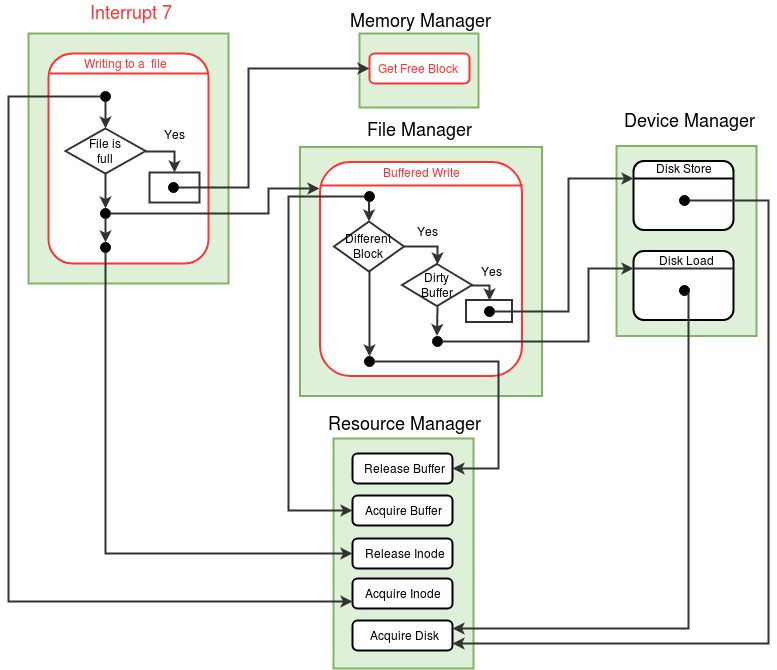
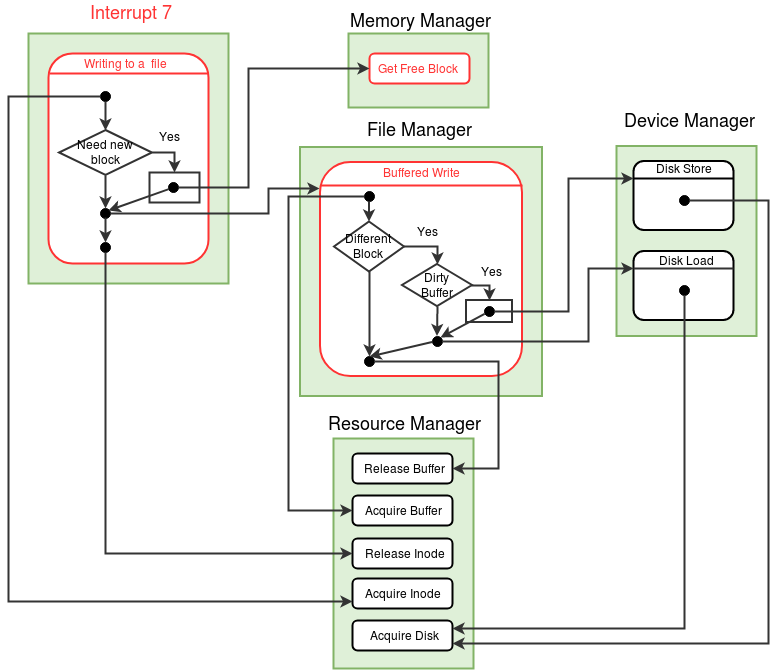
Reviewed File Write stage

diff --git a/Roadmap.html b/Roadmap.html
@@ -1773,7 +1773,7 @@ ireturn;
  services like writing to a file/console, forking a process etc.   Each system call routine is written inside
  some software interrupt handler.  For example, the write system call of eXpOS is coded inside the INT 7 handler.  
  An interrupt handler may contain code for several system calls. 
- (For example, in the eXpOS implementation on XSM, the routines for create, delete and seek system calls 
+ (For example, in the eXpOS implementation on XSM, the routines for create and  delete system calls 
  are coded inside the INT 4 handler - find details<a href="os_design-files/Sw_interface.html" target="_blank"> here</a>). To identify the correct routine, the OS assigns a unique system call number to each system call routine.  To invoke a system call from a program, the program must pass the system call number (along with other arguments to the system call) and invoke the corresponding
  software interrupt using the INT instruction.  The arguments and the system call number are passed through the user 
  program's stack.</p>  
@@ -2000,6 +2000,7 @@ loadi(17,30);
 
 	<br>
 	<b>Making Things Work</b><br><br>
+	<p style="text-indent: 0px"><code>Note :</code><b>[Implementation Tip]</b> From this stage onwards, you have to load multiple files using XFS-interface. To make things easier, create a batch file containing XFS-interface commands to load the required files and run this batch file using <b>run</b> command. See the usage of <b>run</b> command in <a href="./support_tools-files/xfs-interface.html" target="_blank">XFS-interface documentation</a>.   </p>
 	<ol style="list-style-type:decimal;margin-left:2px">
 	<li>
 	Save this file in your UNIX machine as $HOME/myexpos/spl/spl_progs/sample_int7.spl
@@ -2960,6 +2961,7 @@ alias currentPID R2;</pre></div></li>
 							<br>
 
 							  <b>Making things work</b><br><br>
+
 							  <ol style="list-style-type: decimal;margin-left: 2px">
 							  	<li>Compile and load boot module code, module 0, module 4, modified INT 7 routine using XFS-interface.</li>
 							  	<li>Run the machine with two programs one printing even numbers and another printing odd numbers from 1 to 100 along with the idle process.</li>
@@ -3824,7 +3826,9 @@ the <i>load</i> instruction abstracts <a href="https://en.wikipedia.org/wiki/Asy
  
        <li style="padding-left: 20px">Initialize the <a href="os_design-files/process_table.html#per_page_table" target="_blank">page table</a> of the child process. As heap, code and library pages are shared by the parent process and the child process, copy these entries (page number and auxiliary information) form the page table of the parent to the child. For each page shared, increment the corresponding share count in the <a href="os_design-files/mem_ds.html#mem_free_list" target="_blank">memory free list</a> (why do we do need to do this?). Initialize the stack page entries in the page table with the new memory page numbers obtained earlier. Note that the auxiliary information for the stack pages is same for both parent and child (why?). Copy content of the user stack pages of the parent to the user stack pages of the child word by word.</li>
 
-       <li style="padding-left: 20px">Store the value in the BP register on top of the kernel stack of child process. The processes (child) created by <i>Fork</i> starts the execution from the instruction following call to <i>Fork</i>. So, the child process needs BP value at that point of execution. Hence, BP (BP value of parent) is stored so that when the child starts it execution for the first time, it pops the value from stack and uses it. Note that even the kernel stack has a value present, the KPTR in the process table is still set to 0.</li>
+       <li style="padding-left: 20px">Store the value in the BP register on top of the kernel stack of child process. This value will be used to initialize the BP register of the child process by the scheduler when the child is scheduled for the first time.  
+
+       <!--The processes (child) created by <i>Fork</i>starts the execution from the instruction following call to <i>Fork</i>. So, the child process needs BP value at that point of execution. Hence, BP (BP value of parent) is stored so that when the child starts it execution for the first time, it pops the value from stack and uses it. Note that even the kernel stack has a value present, the KPTR in the process table is still set to 0.--></li>
 
        <li style="padding-left: 20px">Set up return values in the user stacks of the parent and the child processes.  Store the PID of the child process as return value to the parent and 0 as the return values to the child.  Reset the MODE FLAG of the parent process. Switch to the user stack of the parent process and return to the user mode.</li>
 </ul>
@@ -3835,10 +3839,10 @@ the <i>load</i> instruction abstracts <a href="https://en.wikipedia.org/wiki/Asy
 
 <b>Modifications to <a href="os_modules/Module_5.html" target="_blank">Scheduler module</a></b>
 <br><br>
-<p>The context-switch (scheduler) module is modified in this stage to store the BP back from the kernel stack for the child processes.</p>
+<p>The context-switch (scheduler) module is modified in this stage. The BP register of the child has to be initiazed by the scheduler for the first time as child is in created state. Refer to the detailed schedular algorithm <a href="os_modules/Module_5.html" target="_blank">here</a>.</p>
 <ul style="list-style-type: disc; margin-left: 10px">
-	<li style="padding-left: 20px">As the child process state is set to created by the <i>Fork</i>, do the following when the state of the new process found is created - </li>
-	<li style="padding-left: 20px">Before changing the stack to the user stack for the created process, store the value on top of the kernel stack (pointed by SP) to the BP register.</li>
+	<li style="padding-left: 20px">When the process is in created state, add folllowing steps before switching to user stack.</li>
+	<li style="padding-left: 20px">Store the value in the first word of the kernel stack to the BP register.</li>
 </ul>
 
 
@@ -4076,10 +4080,10 @@ In later stages, when a file system is added to the OS, the file system data wil
   
   <br><br>
 
-  <b style="color:#26A65B">Assignment 2: </b>Modify <a href="test_prog.html#ll_fork" target="_blank">the program</a> given in assignment-2 of previous stage to use <i>Wait</i> and <i>Signal</i> system calls to synchronize the order of printing the numbers. The program given creates linked list of the first 100 numbers. The program then forks to create a child so that the parent and the child has separate pointers to the head of the shared linked list.  Now, the child prints the  1st, 3rd, 5th, 7th... etc. entries of the list whereas the parent prints the 2nd, 4th, 6th, 8th....etc. entries of the list. Modify the program to invoke <i>Wait</i> system call from parent with PID of child process before printing a number and child to invoke <i>Signal</i> system call after child prints an entry. Usage of <i>Wait</i> and <i>Signal</i> system calls make sure that numbers are printed in sequential order. Run this program using the shell.  
+  <!--<b style="color:#26A65B">Assignment 2: </b>Modify <a href="test_prog.html#ll_fork" target="_blank">the program</a> given in assignment-2 of previous stage to use <i>Wait</i> and <i>Signal</i> system calls to synchronize the order of printing the numbers. The program given creates linked list of the first 100 numbers. The program then forks to create a child so that the parent and the child has separate pointers to the head of the shared linked list.  Now, the child prints the  1st, 3rd, 5th, 7th... etc. entries of the list whereas the parent prints the 2nd, 4th, 6th, 8th....etc. entries of the list. Modify the program to invoke <i>Wait</i> system call from parent with PID of child process before printing a number and child to invoke <i>Signal</i> system call after child prints an entry. Usage of <i>Wait</i> and <i>Signal</i> system calls make sure that numbers are printed in sequential order. Run this program using the shell.  
    <br><br>
-
-   <b style="color:#26A65B">Assignment 3: </b> Write an ExpL program 'pid.expl' which invokes <i>Getpid</i> system call and prints the pid. Write another ExpL program which invokes <i>Fork</i> system call three times back to back. Then, the program shall use <i>Exec</i> system call to execute pid.xsm file. Run this program using the shell.
+-->
+   <b style="color:#26A65B">Assignment 2: </b> Write an ExpL program 'pid.expl' which invokes <i>Getpid</i> system call and prints the pid. Write another ExpL program which invokes <i>Fork</i> system call three times back to back. Then, the program shall use <i>Exec</i> system call to execute pid.xsm file. Run this program using the shell.
    <br><br>
 		</div>
 		</div>
@@ -4267,6 +4271,13 @@ ensure data consistency.  eXpOS provides <b>binary semaphores</b> which can be u
                             Yes, it is possible. As some other process waiting for the semaphore could be scheduled before the current process and could have locked the semaphore. In this case the present process finds the semaphore locked again and has to wait in a busy loop until the required sempahore is unlocked.    
                             </div>
     </li>
+     <li class="list-group-item">
+
+<a data-toggle="collapse"  href="#collapseq21"><b>Q2.</b>A process first locks a semaphore using SemLock system call and then forks to create a child. As the semaphore is now shared between child and parent, what will be locking status for the semaphore? </a>
+                            <div id="collapseq21" class="panel-collapse collapse">
+                            The sempahore will still be locked by the parent process. In <i>Fork</i> system call, the PROCESS COUNT in the semaphore table is incremented by one but LOCKING PID field is left untouched. 
+                            </div>
+    </li>
 
     </ul>
                           </div>
@@ -4436,8 +4447,8 @@ bit (in the buffer table) of all the buffered disk blocks of the file.
                           <ul class="list-group">
                            <li class="list-group-item">
 
-<a data-toggle="collapse"  href="#collapseq21"><b>Q1.</b> What is the need for <i>Delete</i> system call to lock the file before deleting it? </a>
-                            <div id="collapseq21" class="panel-collapse collapse">
+<a data-toggle="collapse"  href="#collapseq22"><b>Q1.</b> What is the need for <i>Delete</i> system call to lock the file before deleting it? </a>
+                            <div id="collapseq22" class="panel-collapse collapse">
                             Locking the file in <i>Delete</i> system call makes sure that some other process will not be able to open the file or perform any other operation on the file during the deletion of the file.  
                             </div>
     </li>
@@ -4628,8 +4639,9 @@ processes are allowed to access the buffer concurrently.</p>
 
 <b>Making things work</b><br><br>
 <p> Compile and load the newly written/modified files to the disk using XFS-interface.</p>
-
-
+<br>
+<b style="color:#26A65B">Assignment 1:</b> Write an ExpL program to take file name as input from the console, read the contents of the file and print to the console. Run this program using shell. Load external data files needed for the program using XFS-interface, as at present eXpOS does not support writing to a file. Check the program with following data files as input - 1) sample.dat from stage 2, 2) "numbers.dat" containing numbers 1 to 2047 separated by new line. (You may write a C program to generate the file "numbers.dat".)<br><br>
+<b style="color:#26A65B">Assignment 2:</b> Run the program provided <a href="test_prog.html#test_program_5" target="_blank">here</a> using shell. Use data files from previous question as input. The program takes name of a data file as input and opens the file first. It then forks to create child process. The content of the file with shared open instance (shared LSEEK) will be printed to the terminal concurrently by parent and child. A semaphore is used to synchronize the use of the open instance between parent and child.<br><br>
   </div>
 </div>
 <!--=========End Stage 24 ===========-->
@@ -4690,36 +4702,36 @@ processes are allowed to access the buffer concurrently.</p>
 <p><i>Write</i> system call takes as arguments 1) a file descriptor and 2) a word to be written into the file. <i>Write</i> system call locks the inode at the beginning of the system call and releases the lock at the end of the system call. The functions <b>Acquire Inode</b> and <b>Release Inode</b> of <a href="os_modules/Module_0.html" target="_blank">Resource Manager Module</a> are used to lock and release inodes. </p>
 
 
-<p>After acquiring the Inode, <i>Write</i> system call writes the given word to the file, at the offset determined by LSEEK (field in the <a href="os_design-files/mem_ds.html#file_table">open file table</a> entry). Previously present data, if any, at the position determined by LSEEK is overwritten by the write operation. The maximum file size permitted by eXpOS is four disk blocks. Hence, write fails if the LSEEK value exceeds 2047.</p>
+<p>After acquiring the Inode, <i>Write</i> system call writes the given word to the file, at the offset determined by LSEEK (field in the <a href="os_design-files/mem_ds.html#file_table">open file table</a> entry). Previously present data, if any, at the position determined by LSEEK is overwritten by the write operation. The maximum file size permitted by eXpOS is four disk blocks. Hence, <i>Write</i> fails if the LSEEK value exceeds 2047.</p>
 
-<p>The <i>Write</i> system call finds the logical block number corresponding to the LSEEK position using the formula LSEEK / 512.  LSEEK % 512 gives the offset position
-in the block to which data must be written into. For example, if the LSEEK value is 1024, then the block number will be 2 (third data block) and the offset is 0. The block numbers of the disk blocks that had been allocated for the file so far are stored in the <a href="os_design-files/disk_ds.html#inode_table" target="_blank">inode table</a> entry corresponding to the file.</p>
+<p>The <i>Write</i> system call finds the <b>logical block number</b> corresponding to the LSEEK position using the formula LSEEK / 512.  LSEEK % 512 gives the <b>offset position</b> in the block to which data must be written into. For example, if the LSEEK value is 1024, then the block number will be 2 (third data block) and the offset is 0. The block numbers of the disk blocks that had been allocated for the file so far are stored in the <a href="os_design-files/disk_ds.html#inode_table" target="_blank">inode table</a> entry corresponding to the file.</p>
 
 <p>In the above example, suppose that the file had been allocated three or more
-blocks earlier. Then, the physical block number corresponding to logical block number = 2 will have a valid entry in the Inode table for the file. Hence, <i>Write</i> system call must bring that block into the buffer and write the data into the required offset position within the block. However, if there is no disk block allocated for logical block number = 2 (that is the file had been allocated only 2 blocks so far), then <i>Write</i> system call must allocate a new block for the file.</p>
+blocks earlier. Then, the physical block number corresponding to logical block number = 2 will have a valid entry in the inode table for the file. Hence, <i>Write</i> system call must bring that block into the buffer and write the data into the required offset position within the block. However, if there is no disk block allocated for logical block number = 2 (that is the file had been allocated only 2 blocks so far), then <i>Write</i> system call must allocate a new block for the file.</p>
 
-<p>eXpOS design ensures that the value of LSEEK can never exceed the file size.  This ensures that a write operation allocates exactly one new block for a file when 
+<p>eXpOS design ensures that the value of LSEEK can never exceed the file size. This ensures that a write operation allocates exactly one new block for a file when 
 the LSEEK value is a multiple of 512 and is equal to the file size (why?). In particular, the first data block for a newly created file is allocated upon the first write into the file. To allocate a new block for the file, <i>Write</i> invokes <b>Get Free Block</b> function of <a href="os_modules/Module_2.html" target="_blank">memory manager module</a>.</p>
 
 
- <p>For writing to position LSEEK in the file, the disk block corresponding to position LSEEK has to be present in the memory. To bring the required disk block into the memory buffer and write the given word to position LSEEK, <i>Write</i> invokes <b>Buffered Write</b> function of the <a href="os_modules/Module_3.html" target="_blank">file manager module</a>. 
+ <p>For writing to position LSEEK in the file, the disk block corresponding to position LSEEK has to be present in the memory. To bring the required disk block into the memory buffer and write the given word to position LSEEK, <i>Write</i> invokes <b>Buffered Write</b> function of the <a href="os_modules/Module_3.html" target="_blank">file manager module</a>. Buffered Write function expects the physical block number as argument. <i>Write</i> system call finds the physical block number corresponding to the logical block number from the inode table entry of the file. </p> 
 
- <p>Write (and Delete) fails if the user id of the process calling Write has no access permission to modify the file (see file access permissions).  Since in the present stage the user id of all processes is set to root, Write fails 
+ <p>Write (and Delete) fails if the user id of the process calling Write has no access permission to modify the file (see <a href="os_spec-files/multiuser.html#file_access_permissions" target="_blank">file access permissions</a>).  Since in the present stage the user id of all processes is set to root, Write fails 
  only on the root file and executable files.</p>
 
 <p style="text-indent: 0px">Implement <i>Write</i> system call using detailed algorithm provided <a href="os_design-files/write.html">here</a>.</p>
 
 <br>
 <li><b>Buffered Write (function number = 1, <a href="os_modules/Module_3.html" target="_blank">file manager module</a> )</b></li>
-<p><b>Buffered Write</b> takes a disk block number, offset and a word as arguments. The task of Buffered Write is to write a given word to the given disk block at postion given by offset. To write a word to a disk block, it has to be present in the memory. <a href="Tutorials/filesystem_implementation.html#memory_buffer_cache" target="_blank">Memory buffer cache</a> is used for this purpose. The disk block is loaded (if not loaded already) into the buffer page with buffer number given by formula - <i>(disk block number%4)</i>. To use a buffer page, it has to be locked by invoking <b>Acquire Buffer</b> function of <a href="os_modules/Module_0.html" target="_blank">resource manager module</a>. To load a disk block into a memory buffer page, Buffered Write invokes the function <b>Disk Load</b> of <a href="os_modules/Module_4.html" target="_blank">device manager module</a>. After loading the given disk block into the corresponding buffer, the given word is written at the position given by offset in the memory buffer. As the buffer is modified, the DIRTY BIT in the corresponding buffer table entry is set to 1. The buffer to which a disk block has to be loaded may contain some other disk block. In such case, if the buffer is modified (dirty bit is set), the disk block present in the buffer is stored back into the disk before loading a new disk block. To store a disk block back into the disk, Buffered Write invokes <b>Disk Store</b> function of device manager module. Finally, the buffer page is released by invoking <b>Release Buffer</b> function of resource manager module.</p> 
+<p><b>Buffered Write</b> takes a disk block number, offset and a word as arguments. The task of Buffered Write is to write the given word to the given disk block at the position specified by the offset. To write a word to a disk block, the disk block has to be brought into memory. <a href="Tutorials/filesystem_implementation.html#memory_buffer_cache" target="_blank">Memory buffer cache</a> is used for this purpose. The disk block is loaded (if not loaded already) into the buffer page with buffer number specified by the formula - <i>(disk block number%4)</i>. To use a buffer page, it has to be locked by invoking <b>Acquire Buffer</b> function of <a href="os_modules/Module_0.html" target="_blank">resource manager module</a>. To load a disk block into a memory buffer page, Buffered Write invokes the function <b>Disk Load</b> of <a href="os_modules/Module_4.html" target="_blank">device manager module</a>. After loading the given disk block into the corresponding buffer, the given word is written to the memory buffer at the position specified by the offset. <b>As the buffer is modified, the DIRTY BIT in the corresponding buffer table entry is set to 1.</b></p>
+<p>Buffered Write may find that, the buffer page to which a disk block has to be loaded contains some other disk block. In such case, if the buffer is modified (dirty bit is set), the disk block present in the buffer is stored back into the disk before loading the new disk block. To store a disk block back into the disk, Buffered Write invokes <b>Disk Store</b> function of the <a href="os_modules/Module_4.html" target="_blank">device manager module</a>. Finally, the buffer page is released by invoking <b>Release Buffer</b> function of resource manager module.</p> 
 <p style="text-indent: 0px">Implement <i>Buffered Write</i> function using the detailed algorithm given in the file manager module link above.</p>
 <br>
-<p style="text-indent: 0px"><code>Note :</code><b>[Implementation Hazard]</b> Buffured Write and Buffered Read functions algorithm is almost identical, except in Buffered Write - given word is written to the buffer and in Bufferd Read - a word from the buffer is stored in provided address. If code for file manager module exceeds two blocks (more than 512 instructions), then implement the code for Buffered Read and Buffered Write in a single 'if block' to reduce number of instructions. </p>
+<p style="text-indent: 0px"><code>Note :</code><b>[Implementation Hazard]</b> Algorithms of Buffered Write and Buffered Read functions are almost identical, except that in Buffered Write - given word is written to the buffer whereas in Buffered Read - a word is read from the buffer. If your code for file manager module exceeds maximum number of assembly instructions permitted for a eXpOS module (512 instructions), then implement the code for <b>Buffered Read</b> and <b>Buffered Write</b> in a single 'if block' to reduce number of instructions. </p>
 <br>
 
 
 <li><b>Get Free Block (function number = 3, <a href="os_modules/Module_2.html" target="_blank">memory manager module</a> )</b></li>
-<p>Get Free Block function does not take any argument and returns the block number of a free block in the disk. If no free block is found, Get Free Block returns -1. A free block can be found by searching for a free entry in the <a href="os_design-files/disk_ds.html#disk_free_list">disk free list</a> from position DISK_FREE_AREA to DISK_SWAP_AREA-1. A free entry in the disk free list is denoted by 0. In the disk, the blocks from 69 to 255 called User blocks, are reserved for allocating to executable and data files. SPL constant <a href="support_tools-files/constants.html" target="_blank">DISK_FREE_AREA</a> gives the starting block number for User blocks. <a href="support_tools-files/constants.html" target="_blank">DISK_SWAP_AREA</a> gives the starting block number of swap area. See <a href="os_implementation.html" target="_blank">disk organization</a>. </p> 
+<p><b>Get Free Block</b> function does not take any argument and returns the block number of a free block in the disk. If no free block is found, Get Free Block returns -1. A free block can be found by searching for a free entry in the <a href="os_design-files/disk_ds.html#disk_free_list">disk free list</a> from position DISK_FREE_AREA to DISK_SWAP_AREA-1. A free entry in the disk free list is denoted by 0. In the disk, the blocks from 69 to 255 called User blocks, are reserved for allocation to executable and data files. SPL constant <a href="support_tools-files/constants.html" target="_blank">DISK_FREE_AREA</a> gives the starting block number for User blocks. <a href="support_tools-files/constants.html" target="_blank">DISK_SWAP_AREA</a> gives the starting block number of swap area. See <a href="os_implementation.html" target="_blank">disk organization</a>.</p> 
 <p style="text-indent: 0px">Implement <i>Get Free Block</i> function using the detailed algorithm given in the memory manager module link above.</p>
 <br>
 
@@ -4743,7 +4755,7 @@ the LSEEK value is a multiple of 512 and is equal to the file size (why?). In pa
 
 <ol style="list-style-type: decimal; margin-left: 2px">
 <li><b>Seek system call</b></li>
-<p><i>Seek</i> system call takes file descriptor and offset as arguments from user program. <i>Seek</i> updates the LSEEK field in the <a href="os_design-files/mem_ds.html#file_table" target="_blank">open file table</a> corresponding to the open instance according to the provided offset value. Offset value can be any integer (positive, zero or negative). If the given offset value is 0, then LSEEK field is set to the starting of the file. For a non-zero value of offset, the given offset is added to the LSEEK position. If the new LSEEK exceeds size of the file, then LSEEK is set to file size. If the new LSEEK position becomes negative, then <i>Seek</i> system call fails and return to user program with appropriate error code without changing the LSEEK position.</p>
+<p><i>Seek</i> system call is used to move LSEEK pointer value for an open instance according to users requirement. <i>Seek</i> system call takes as argument a file descriptor and an offset from the user program. <i>Seek</i> updates the LSEEK field in the <a href="os_design-files/mem_ds.html#file_table" target="_blank">open file table</a> corresponding to the open instance according to the provided offset value. Offset value can be any integer (positive, zero or negative). If the given offset value is 0, then LSEEK field is set to the starting of the file. For a non-zero value of offset, the given offset is added to the current LSEEK value. If the new LSEEK exceeds size of the file, then LSEEK is set to file size. If the new LSEEK position becomes negative, then <i>Seek</i> system call fails and return to user program with appropriate error code without changing the LSEEK position.</p>
 <p style="text-indent: 0px">Implement <i>Seek</i> system call using detailed algorithm provided <a href="os_design-files/seek.html">here</a>.</p>
 <br>
 
@@ -4753,7 +4765,7 @@ the LSEEK value is a multiple of 512 and is equal to the file size (why?). In pa
 
 <b style="font-size: 20px">Interrupt routine 15 (<i>Shutdown</i> system call)</b><br><br>
 
-<p>Now that eXpOS supports writing to the files, the disk has to be made consistent with the modified files. <i>Shutdown</i> system call is modified in this stage to store back the buffers changed by the <i>Write</i> system call. <i>Shutdown</i> system call also terminates all the processes except current process, IDLE and INIT by invoking Kill All function of <a href="os_modules/Module_1.html" target="_blank">process manager module</a>. Modify <i>Shutdown</i> system call by adding following steps in the already written interrupt routine 15 file.</p>
+<p>Now that eXpOS supports writing to the files, the disk has to be consistent with the modified files before the system shuts down. <i>Shutdown</i> system call is modified in this stage to store back the buffers changed by the <i>Write</i> system call. <i>Shutdown</i> system call also terminates all the processes except current process, IDLE and INIT by invoking <b>Kill All</b> function of <a href="os_modules/Module_1.html" target="_blank">process manager module</a>. Finally <i>Shutdown</i> halts the system after disk is made consistent.</p>
 <br>
 <figure style="text-align: center;">
                            <img src="img/roadmap/shutdown.png" style="display:block;margin-left:auto;margin-right:auto" >
@@ -4764,20 +4776,22 @@ the LSEEK value is a multiple of 512 and is equal to the file size (why?). In pa
                            <br> 
 
 <br>
-
+ <p style="text-indent: 0px">Modify <i>Shutdown</i> system call (interrupt routine 15) to perform the following addition steps.</p>
 <ul style="list-style-type: disc; margin-left: 10px; ">
   
-  <li style="padding-left: 20px">Invoke <b>Kill All</b> function of <a href="os_modules/Module_1.html" target="_blank">process manager module</a>. Kill All terminates all the processes except IDLE, LOGIN (In later stages, LOGIN process is loaded as the INIT process) and the process with given PID.</li>
+  <li style="padding-left: 20px">Invoke <b>Kill All</b> function of <a href="os_modules/Module_1.html" target="_blank">process manager module</a>. Kill All terminates all the processes except IDLE, INIT and the process calling <i>Shutdown</i>.</li>
   <li style="padding-left: 20px">For every valid entry in the <a href="os_design-files/mem_ds.html#buffer_table" target="_blank">buffer table</a> (BLOCK NUMBER is not equal to -1), if the DIRTY BIT field is set, then store back the buffer page of that buffer entry into the corresponding disk block by invoking <b>Disk Store</b> function of the <a href="os_modules/Module_4.html" target="_blank">device manager module</a>.</li>
  
   </ul>
+ <p style="text-indent: 0px">Implement <i>Shutdown</i> system call using detailed algorithm provided <a href="os_design-files/shutdown.html">here</a>.</p>
+
 <br>
 
 
 <b>Kill All (function number = 5, <a href="os_modules/Module_1.html" target="_blank">process manager module</a>)</b><br><br>
 
-  <p><b>Kill All</b> function takes PID of a process as an argument. Kill All function terminates all the processes except IDLE,INIT and the process with given PID. Kill All first locks all the files present in the inode table by invoking <b>Acquire Inode</b> function of <a href="os_modules/Module_0.html" target="_blank">resource manager module</a> for every file. Locking all the inodes makes sure that, no process is in the middle of any file operation. If suppose a process (say A) is using a file and has locked the inode, then the process which has invoked Kill All will wait until process A completes the file operation and releases the inode. After acquiring all the inodes, Kill All terminates the processes (except IDLE, INIT and process with given PID) which are not TERMINATED by invoking <b>Exit Process</b> function of <a href="os_modules/Module_1.html" target="_blank">process manager module</a> for every process. Finally, all the acquired inodes are released by invoking <b>Release Inode</b> function of resource manager module for each valid file.</p>
-<p style="text-indent: 0px">Implement Get Free Block function using the detailed algorithm given in the memory manager module link above.</p>
+  <p><b>Kill All</b> function takes PID of a process as an argument. Kill All terminates all the processes except IDLE, INIT and the process with given PID. Kill All first locks all the files present in the inode table by invoking <b>Acquire Inode</b> function of <a href="os_modules/Module_0.html" target="_blank">resource manager module</a> for every file. Locking all the inodes makes sure that, no process is in the middle of any file operation. If suppose a process (say A) is using a file and has locked the inode, then the process which has invoked Kill All will wait until process A completes the file operation and releases the inode. After acquiring all the inodes, Kill All terminates all the processes (except IDLE, INIT and process with given PID) by invoking <b>Exit Process</b> function of <a href="os_modules/Module_1.html" target="_blank">process manager module</a> for every process. Finally, all the acquired inodes are released by invoking <b>Release Inode</b> function of resource manager module for each valid file.</p>
+<p style="text-indent: 0px">Implement Kill All function using the detailed algorithm given in the process manager module link above.</p>
 <br>
 <p style="text-indent: 0px"><code>Note :</code>The implementation of the <b><i>Shutdown</i></b> system call and <b>Kill All</b> function are final. </p><br>
 
@@ -4786,8 +4800,12 @@ the LSEEK value is a multiple of 512 and is equal to the file size (why?). In pa
 <p> Compile and load the modified files to the disk using XFS-interface.</p>
 <br>
 
-
-
+<b style="color:#26A65B">Assignment 1:</b> Write an ExpL program to take file name(string) and permission(integer) as input from the console and create a file with the provided input. Write numbers from 1 to 100 into the file and afterwards read from the same file and print its content to the terminal. Run this program using shell.<br>
+<br>
+<b style="color:#26A65B">Assignment 2:</b> Write an ExpL program to take name of the file as input which is already present in the system. Append numbers 1 to 513 to the file and afterwords read the contents of the file and print to the terminal. Run this program using shell.<br>
+<br><br>
+<!--<b style="color:#26A65B">Assignment 3:</b> Run the program provided <a href="test_prog.html#test_program_6" target="_blank">here</a> using shell. The program takes names of data files as input and opens the file first. It then forks to create child process. The content of the file with shared open instance (shared LSEEK) will be printed to the terminal concurrently by parent and child. To synchronize the use of the open instance between parent and child a semaphore is used.  <br><br>
+-->
   </div>
 </div>
 <!--=========End Stage 25 ===========-->

diff --git a/test_prog.html b/test_prog.html
@@ -377,64 +377,64 @@ pre span:before {
 <span>int main()</span>
 <span>{</span>
 <span>decl</span>
-<span>          int temp,x, pidone, pidtwo, semid, iter;</span>
+<span>          int temp, x, pidone, pidtwo, semid, iter;</span>
 <span>enddecl</span>
 <span></span>
 <span>begin</span>
 <span>          x = exposcall("Heapset");</span>
 <span>          semid = exposcall("Semget");</span> 
-<span>          head= exposcall("Alloc",2);</span>
-<span>          head.isempty=1;</span>
+<span>          head = exposcall("Alloc",2);</span>
+<span>          head.isempty = 1;</span>
 <span>          pidone = exposcall("Fork");</span> 
 <span></span>      
 <span></span>      
 <span>          if (pidone == 0 ) then</span>
 <span>              iter=1;</span>
-<span>              while(iter<=100) do</span>
-<span>                  temp= exposcall("SemLock", semid);</span>
-<span>                  temp=head.isempty;</span>
-<span>                  if(temp==1) then</span>
-<span>                      head.data=iter;</span>
-<span>                      head.isempty=0;</span>
-<span>                      iter=iter+2;</span>
+<span>              while(iter <= 100) do</span>
+<span>                  temp = exposcall("SemLock", semid);</span>
+<span>                  temp = head.isempty;</span>
+<span>                  if(temp == 1) then</span>
+<span>                      head.data = iter;</span>
+<span>                      head.isempty = 0;</span>
+<span>                      iter = iter+2;</span>
 <span>                  endif;</span>
-<span>                  temp= exposcall("SemUnLock", semid);</span>
+<span>                  temp = exposcall("SemUnLock", semid);</span>
 <span>              endwhile;</span> 
 <span></span>          
 <span>          else</span>
 <span>              pidtwo =  exposcall("Fork");</span>
-<span>              if(pidtwo==0) then</span>
-<span>                  iter=2;</span>
-<span>                  while(iter<=100) do</span>
-<span>                      temp= exposcall("SemLock", semid);</span>
-<span>                      temp=head.isempty;</span>
-<span>                      if(temp==1) then</span>
-<span>                          head.data=iter;</span>
-<span>                          head.isempty=0;</span>
-<span>                          iter=iter+2;</span>
+<span>              if(pidtwo == 0) then</span>
+<span>                  iter = 2;</span>
+<span>                  while(iter <= 100) do</span>
+<span>                      temp = exposcall("SemLock", semid);</span>
+<span>                      temp = head.isempty;</span>
+<span>                      if(temp == 1) then</span>
+<span>                          head.data = iter;</span>
+<span>                          head.isempty = 0;</span>
+<span>                          iter = iter+2;</span>
 <span>                      endif;</span>
-<span>                      temp= exposcall("SemUnLock", semid);</span>
+<span>                      temp = exposcall("SemUnLock", semid);</span>
 <span>                  endwhile;</span>
 <span></span>          
 <span>              else</span>
 <span></span>                      
-<span>                  iter=1;</span>
-<span>                  while(iter<=100) do</span>
-<span>                      temp= exposcall("SemLock", semid);</span>
-<span>                      temp= head.isempty;</span>
-<span>                      if(temp==0) then</span>
-<span>                          x=head.data;</span>
-<span>                          head.isempty=1;</span>
-<span>                          temp= exposcall("Write",-2, x);</span>
-<span>                          iter=iter+1;</span>
+<span>                  iter = 1;</span>
+<span>                  while(iter <= 100) do</span>
+<span>                      temp = exposcall("SemLock", semid);</span>
+<span>                      temp = head.isempty;</span>
+<span>                      if(temp == 0) then</span>
+<span>                          x = head.data;</span>
+<span>                          head.isempty = 1;</span>
+<span>                          temp = exposcall("Write",-2, x);</span>
+<span>                          iter = iter+1;</span>
 <span>                      endif;</span>
-<span>                      temp= exposcall("SemUnLock", semid);</span>
+<span>                      temp = exposcall("SemUnLock", semid);</span>
 <span></span>                    
 <span>                  endwhile;</span> 
 <span>              endif;</span>  
 <span></span>                
 <span>          endif;</span>
-<span>          temp= exposcall("Semrelease", semid);</span>
+<span>          temp = exposcall("Semrelease", semid);</span>
 <span>          return 0;</span>
 <span>end</span>
 <span>}</span>
@@ -443,6 +443,63 @@ pre span:before {
 
 </div>
 
+
+
+<div class="panel-body" id="test_program_5"  >
+              <br><br>
+              <hr>
+              <br><br>
+       <b style="font-size: 20px;">4. Test Program 5</b><br><br>
+       <table class="table table-bordered">
+                                                    <tr>
+                                                        <td><b>Input</b></td>
+                                                        <td>Name of a data file (String)</td>
+                                                    </tr> 
+                                                    <tr>
+                                                        <td><b>Output</b></td>
+                                                        <td>Content of the given file</td>
+                                                    </tr>
+                                                  </table>
+                                                <p style="text-indent: 0px"><b>Description :</b> The program takes names of data files as input and opens the file first. It then forks to create a child process. The content of the file with shared open instance (shared LSEEK) will be printed to the terminal concurrently by parent and child. To synchronize the use open instance between parent and child a  semaphore is used.</p><br>
+<div><pre>
+<span>decl</span>
+<span>          int i, semid, pid, data, temp, filedis, a;</span>
+<span>          string filename;</span>
+<span>enddecl</span>
+<span></span>
+<span>int main()</span>
+<span>{</span>
+<span>begin</span>
+<span>          temp = exposcall("Read",-1,filename);</span> 
+<span>          filedis = exposcall("Open", "numbers.dat");</span>
+<span>          semid = exposcall("Semget");</span>
+<span>          pid = exposcall("Fork");</span>
+<span>          a = 0;</span>
+<span>          data = -1;</span>
+<span>          if(pid > 0) then</span>
+<span>              while(a != -2)  do</span>
+<span>                  temp = exposcall("SemLock", semid);</span>
+<span>                  a = exposcall("Read",filedis,data);</span>
+<span>                  temp = exposcall("Write",-2,data);</span>
+<span>                  temp = exposcall("SemUnLock", semid);</span>
+<span>              endwhile;</span>
+<span>              temp = exposcall("Semrelease", semid);</span>
+<span>          else</span>
+<span>              while(a != -2)  do</span>
+<span>                  temp = exposcall("SemLock", semid);</span>
+<span>                  a = exposcall("Read",filedis,data);</span>
+<span>                  temp = exposcall("Write",-2,data);</span>
+<span>                  temp = exposcall("SemUnLock", semid);</span>
+<span>              endwhile;</span>
+<span>              temp = exposcall("Semrelease", semid);</span>
+<span>          endif;</span>
+<span>          return 0;</span>
+<span>end</span>
+<span>}</span>
+</pre>
+       </div>
+
+</div>
 
 
        </div>

diff --git a/Tutorials/filesystem_implementation.html b/Tutorials/filesystem_implementation.html
@@ -130,7 +130,7 @@
   It is necessary to read the following documentations before starting with this tutorial.<br><br>
   1) User level view of <a href="../os_spec-files/eXpFS.html" target="_blank">eXpFS file system</a>.<br>
   2) <a href="../os_spec-files/systemcallinterface.html#filesystemcalls" target="_blank">Program level interface</a> to different file system calls.<br>
-  3) Understand about <a href="../os_spec-files/multiuser.html#file_access_permissions" target="_blank">file permissions</a>.<br>
+  3) Read about <a href="../os_spec-files/multiuser.html#file_access_permissions" target="_blank">file permissions</a>.<br>
 </p><br>
 
 <p style="text-indent: 0px;">To implement the file system, one needs to understand the file system data structures that the OS maintains. One should also understand how various file system routines of the OS access and update these data structures.</p>
@@ -193,7 +193,7 @@ implementation.</p>
 
 <p>When the OS is running, user processes can Open/Read/Write an already created file. <b>When a file is opened by a process using the <i>Open</i> system call, a new “open instance” is created.</b> The OS keeps track of the number of open instances of a file at all times. If a file is opened multiple times (by the same or a different process), each <i>Open</i> call results in creation of a fresh open instance.</p>
 
-<p>Associated with each open instance of a file, there is a <b>seek pointer</b>, which is initialized to the beginning of the file (value 0) by the <i>Open</i> system call. Whenever the file is read from/written into, the update is done to the position in the file corresponding to the seek value, and the seek value is incremented. <b>If a process opens a file and subsequently invokes the <i>Fork</i> system call, the seek pointer is shared between the parent and the child.</b> Hence, subsequent to the fork, if either the parent or the child executes <i>Read</i>/<i>Write</i> system call on the open instance, their common shared seek pointer advances. Finally, the (shared) seek pointer value can be modified (by either process) using the <i>Lseek</i> system call. This is the mechanism through which the OS allows multiple processes to share access to a file.</p>
+<p>Associated with each open instance of a file, there is a <b>seek pointer</b>, which is initialized to the beginning of the file (value 0) by the <i>Open</i> system call. Whenever the file is read from/written into, the update is done to the position in the file corresponding to the seek value, and the seek value is incremented. <b>If a process opens a file and subsequently invokes the <i>Fork</i> system call, the seek pointer is shared between the parent and the child.</b> Hence, subsequent to the fork, if either the parent or the child executes <i>Read</i>/<i>Write</i> system call on the open instance, their common shared seek pointer advances. Finally, the (shared) seek pointer value can be modified (by either process) using the <i>Seek</i> system call. This is the mechanism through which the OS allows multiple processes to share access to a file.</p>
 
 <p>Suppose a process closes an open instance using the <i>Close</i> system call, the <i>Close</i> system call first checks whether the open instance is shared by other (child/parent/sibling) processes. In that case, the OS simply decrements the “share count” of the open instance. If the last process that shared an open instance closes the file, then the share count reaches zero and the open instance is closed.</p>
 
